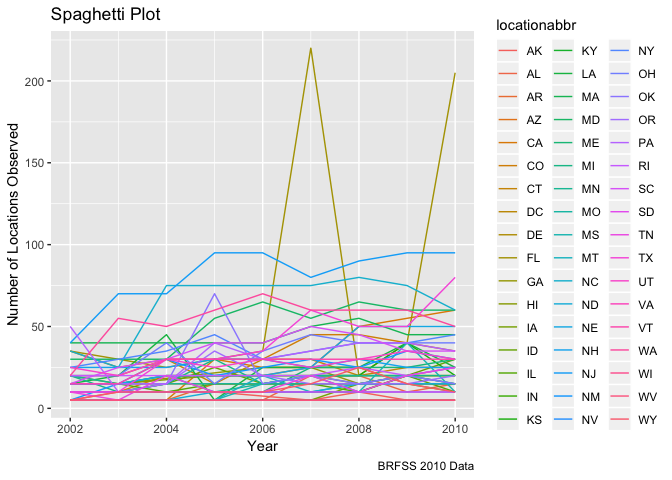
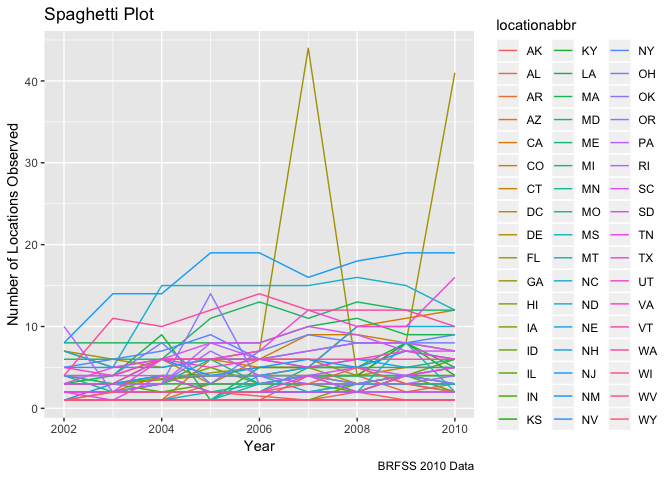
Did a few editing

diff --git a/p8105_hw3_ykk2116.md b/p8105_hw3_ykk2116.md
@@ -10,16 +10,23 @@ Yaa Klu
 library(tidyverse)
 ```
 
-    ## ── Attaching packages ──────────────────────────────────────────────── tidyverse 1.2.1 ──
+    ## ── Attaching packages ────────────────────────────────────────────── tidyverse 1.2.1 ──
 
     ## ✔ ggplot2 3.0.0     ✔ purrr   0.2.5
     ## ✔ tibble  1.4.2     ✔ dplyr   0.7.6
     ## ✔ tidyr   0.8.1     ✔ stringr 1.3.1
     ## ✔ readr   1.1.1     ✔ forcats 0.3.0
 
-    ## ── Conflicts ─────────────────────────────────────────────────── tidyverse_conflicts() ──
+    ## ── Conflicts ───────────────────────────────────────────────── tidyverse_conflicts() ──
     ## ✖ dplyr::filter() masks stats::filter()
     ## ✖ dplyr::lag()    masks stats::lag()
+
+``` r
+library(ggthemes)
+library(patchwork)
+library(hexbin)
+library(chron)
+```
 
 ### Problem 1
 
@@ -44,6 +51,7 @@ data(brfss_smart2010)
 ``` r
 brfss_df = janitor::clean_names(dat = brfss_smart2010) %>%
   filter(topic == "Overall Health") %>%
+  select(-(class:question), -sample_size, -(confidence_limit_low:geo_location)) %>% 
   mutate(response = forcats::fct_relevel(response, c("Excellent", "Very good", "Good", "Fair", "Poor")))
 ```
 
@@ -69,8 +77,8 @@ brfss_df %>%
 
 ``` r
 brfss_df %>%
+  distinct(locationabbr, locationdesc, year) %>% 
   group_by(locationabbr, year) %>%
-  filter(year %in% c("2002":"2010")) %>%
   summarise(number_of_locations = n()) %>%
   ggplot(aes(x = year, y = number_of_locations, color = locationabbr)) +
   geom_line() +
@@ -92,4 +100,237 @@ scale_x_continuous(breaks = c(2002, 2003, 2004, 2005, 2006, 2007, 2008, 2009, 20
     ##  Range:  
     ##  Limits:    0 --    1
 
-\`\`\`
+*Making of Table*
+
+``` r
+brfss_df %>%
+  filter(year %in% c(2002, 2006, 2010)) %>%
+  filter(locationabbr == "NY") %>%
+  spread(key = response, value = data_value) %>% 
+  janitor::clean_names(dat = .) %>% 
+  group_by(locationabbr, year) %>%
+  summarise(n = n(),
+        mean = mean(excellent, na.rm = TRUE),
+        sd = sd(excellent, na.rm = TRUE)) %>%
+  knitr::kable()
+```
+
+| locationabbr | year | n |     mean |       sd |
+| :----------- | ---: | -: | -------: | -------: |
+| NY           | 2002 | 5 | 24.04000 | 4.486424 |
+| NY           | 2006 | 6 | 22.53333 | 4.000833 |
+| NY           | 2010 | 9 | 22.70000 | 3.567212 |
+
+``` r
+brfss_df %>%
+  spread(key = response, value = data_value) %>%
+  janitor::clean_names(dat = .) %>%
+  group_by(locationabbr, year) %>%
+  summarise( n = n(),
+          mean_excellent = mean(excellent, na.rm = TRUE),
+          mean_very_good = mean(very_good, na.rm = TRUE),
+          mean_good = mean(good, na.rm = TRUE),
+          mean_fair = mean(fair, na.rm = TRUE),
+          mean_poor = mean(poor, na.rm = TRUE)) %>%
+  gather(key = mean_variable, value = mean_value, mean_excellent:mean_poor) %>%
+  ggplot(aes(x = year, y = mean_value, color = locationabbr)) +
+  geom_line() +
+  facet_grid(~mean_variable) 
+```
+
+![](p8105_hw3_ykk2116_files/figure-gfm/unnamed-chunk-7-1.png)<!-- -->
+
+### Problem 2
+
+*Loading Dataset*
+
+``` r
+data("instacart")
+```
+
+*Number of aisles and which aisles most items are ordered from*
+
+``` r
+instacart %>%
+  distinct(aisle_id) %>%
+  count()
+```
+
+    ## # A tibble: 1 x 1
+    ##       n
+    ##   <int>
+    ## 1   134
+
+``` r
+instacart %>%
+  group_by(aisle_id, aisle) %>%
+  summarise(number = n()) %>%
+  ungroup() %>%
+  top_n(5, number) %>%
+  arrange(desc(number)) %>%
+  knitr::kable()
+```
+
+| aisle\_id | aisle                      | number |
+| --------: | :------------------------- | -----: |
+|        83 | fresh vegetables           | 150609 |
+|        24 | fresh fruits               | 150473 |
+|       123 | packaged vegetables fruits |  78493 |
+|       120 | yogurt                     |  55240 |
+|        21 | packaged cheese            |  41699 |
+
+*Plot that shows the number of items ordered in each aisle*
+
+``` r
+instacart %>%
+  group_by(aisle_id, aisle) %>%
+  summarise(number = n()) %>%
+  arrange(desc(number)) %>%
+  mutate(asile = tools::toTitleCase(aisle)) %>%
+  ggplot(aes(x = reorder(aisle, -number), y = number, fill = aisle)) +
+  geom_col() +
+  theme(axis.title.x = element_text(angle = 45, hjust = 1, size = 6),
+        legend.position = "none") +
+  labs(
+    title = "Number of items ordered in each aisle",
+    x = "Aisle",
+    y = "Frequency of orders",
+    caption = "Data from 2017 Instacart Online Grocery Shopping"
+  )
+```
+
+![](p8105_hw3_ykk2116_files/figure-gfm/unnamed-chunk-10-1.png)<!-- -->
+
+*Table showing the most popular item in each of the aisles “baking
+ingredients”, “dog food care”, and “packaged vegetables fruits”*
+
+``` r
+instacart %>%
+  select(aisle_id, aisle, product_id, product_name) %>%
+  filter(aisle == "baking ingredients" | aisle == "dog food care" | aisle == "packaged vegetables fruits") %>%
+  group_by(aisle, product_name) %>%
+  summarise(number = n()) %>%
+  top_n(1, number) %>%
+  arrange(desc(number)) %>%
+  knitr::kable()
+```
+
+| aisle                      | product\_name                                 | number |
+| :------------------------- | :-------------------------------------------- | -----: |
+| packaged vegetables fruits | Organic Baby Spinach                          |   9784 |
+| baking ingredients         | Light Brown Sugar                             |    499 |
+| dog food care              | Snack Sticks Chicken & Rice Recipe Dog Treats |     30 |
+
+*Table showing the mean hour of the day at which Pink Lady Apples and
+Coffee Ice Cream are ordered on each day of the week*
+
+``` r
+instacart %>%
+  filter(product_name == "Pink Lady Apples" | product_name == "Coffee Ice Cream") %>%
+group_by(order_dow, product_name) %>% 
+  summarise(mean_hour = mean(order_hour_of_day)) %>% 
+  spread(key = order_dow, value = mean_hour) %>% 
+  knitr::kable()
+```
+
+| product\_name    |        0 |        1 |        2 |        3 |        4 |        5 |        6 |
+| :--------------- | -------: | -------: | -------: | -------: | -------: | -------: | -------: |
+| Coffee Ice Cream | 13.77419 | 14.31579 | 15.38095 | 15.31818 | 15.21739 | 12.26316 | 13.83333 |
+| Pink Lady Apples | 13.44118 | 11.36000 | 11.70213 | 14.25000 | 11.55172 | 12.78431 | 11.93750 |
+
+### Problem 3
+
+*Loading dataset*
+
+``` r
+data("ny_noaa")
+```
+
+``` r
+noaa_df = ny_noaa %>% 
+  mutate(month = months.Date(date, abbreviate = TRUE),
+         day = chron::days(date),
+         year = chron::years(date),
+         tmax = (as.numeric(tmax))/10,
+         tmin = (as.numeric(tmin))/10,
+         prcp = prcp/10)
+```
+
+``` r
+noaa_df %>% 
+  group_by(snow) %>% 
+  summarise(number = n()) %>% 
+  arrange(desc(number))
+```
+
+    ## # A tibble: 282 x 2
+    ##     snow  number
+    ##    <int>   <int>
+    ##  1     0 2008508
+    ##  2    NA  381221
+    ##  3    25   31022
+    ##  4    13   23095
+    ##  5    51   18274
+    ##  6    76   10173
+    ##  7     8    9962
+    ##  8     5    9748
+    ##  9    38    9197
+    ## 10     3    8790
+    ## # ... with 272 more rows
+
+``` r
+noaa_df %>% 
+  group_by(id, year, month) %>% 
+  summarize(n = n(),
+            sum = sum(tmax, na.rm = TRUE),
+            mean = mean(tmax, na.rm = TRUE)) %>% 
+  filter(month %in% c("Jan", "Jul")) %>% 
+  ggplot(aes(x = year, y = mean, color = id)) +
+  facet_grid(~month) + 
+  geom_point() +
+  theme(legend.position = "none", 
+        axis.text.x = element_text(angle = 45, hjust = 1, size = 8)) +
+  viridis::scale_color_viridis(
+    name = "Location", 
+    discrete = TRUE) 
+```
+
+    ## Warning: Removed 5970 rows containing missing values (geom_point).
+
+![](p8105_hw3_ykk2116_files/figure-gfm/unnamed-chunk-16-1.png)<!-- -->
+
+*Average max temperature in January and in July in each station across
+years*
+
+``` r
+noaa_df %>% 
+  filter(month %in% c("Jan", "Jul")) %>% 
+  ggplot(aes(x = year, y = tmax, color = year)) +
+  facet_grid(~month) +
+  geom_boxplot() +
+  theme(legend.position = "none", 
+        axis.text.x = element_text(angle = 45, hjust = 1, size = 8))
+```
+
+    ## Warning: Removed 190331 rows containing non-finite values (stat_boxplot).
+
+![](p8105_hw3_ykk2116_files/figure-gfm/unnamed-chunk-17-1.png)<!-- -->
+
+``` r
+my_hex = ggplot(noaa_df, aes(x = tmin, y = tmax)) +
+  geom_hex(aes()) +
+  theme(legend.position = "left")
+        
+my_boxes = noaa_df %>% 
+  filter(snow > 0 & snow < 100) %>% 
+  ggplot(aes(x = year, y = snow, fill = year)) +
+  geom_boxplot(alpha = 0.3) +
+  theme(legend.position = "none", 
+        axis.text.x = element_text(angle = 45, hjust = 1, size = 8))
+
+my_hex / my_boxes
+```
+
+    ## Warning: Removed 1136276 rows containing non-finite values (stat_binhex).
+
+![](p8105_hw3_ykk2116_files/figure-gfm/unnamed-chunk-18-1.png)<!-- -->
